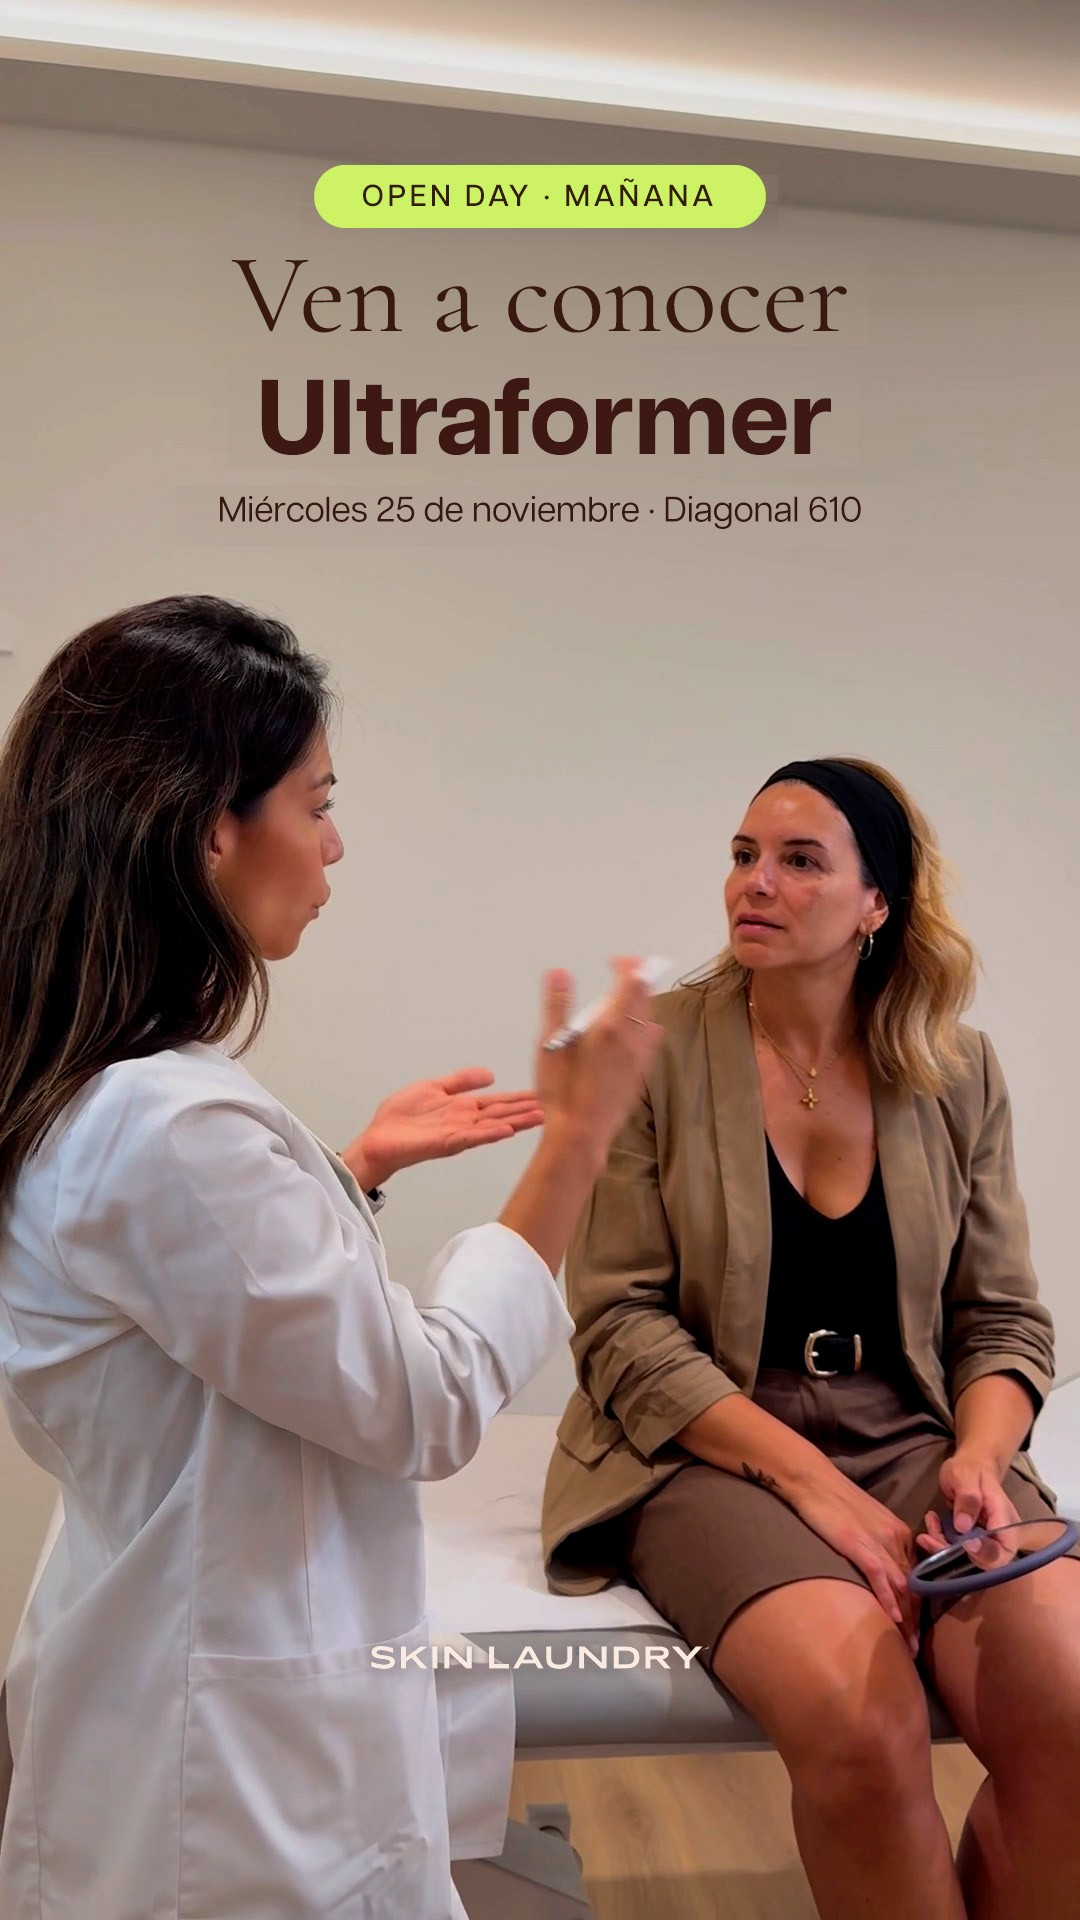
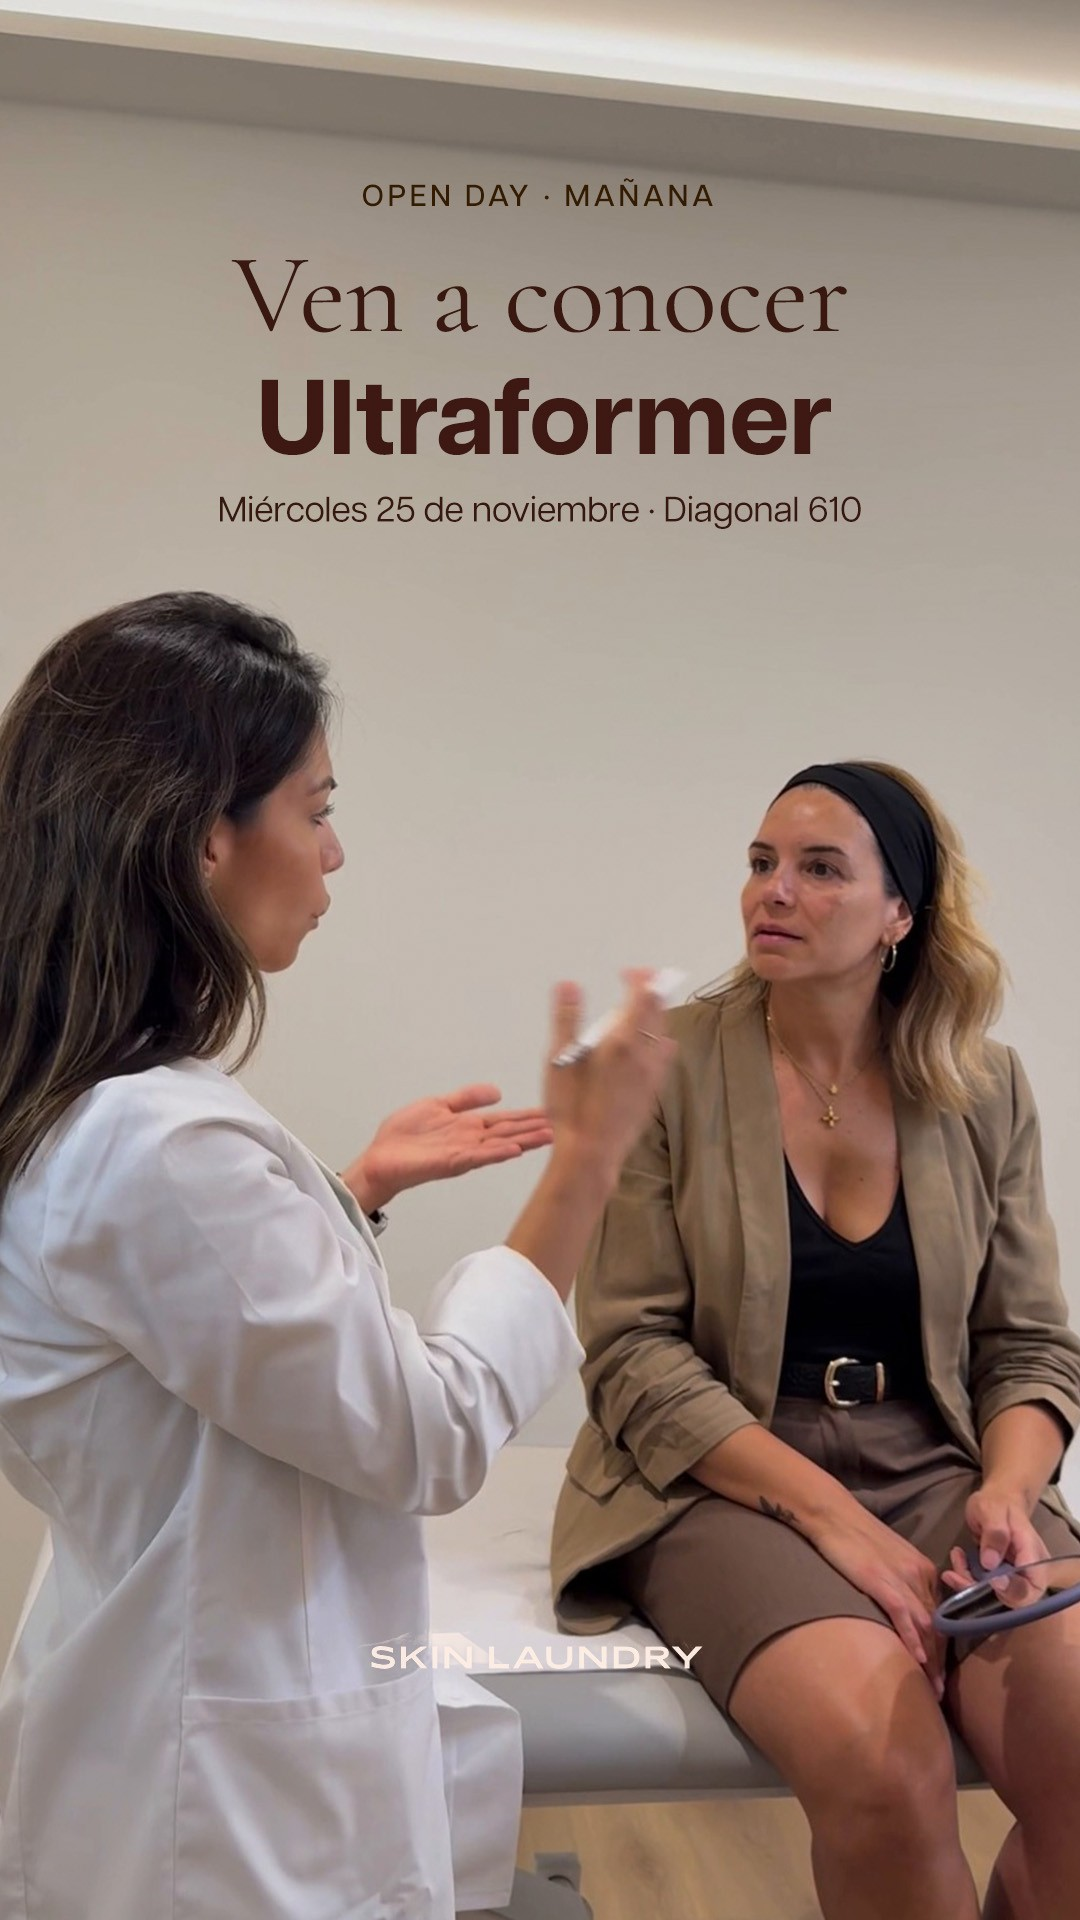
Calendario Skin Laundry: nuevo post y story del martes 24 (Open Day Ultraformer)
Claude-Session: https://claude.ai/code/session_012nXickREEWY8hKe2DiBpuq

diff --git a/public/pitch/skin-laundry-calendario/noviembre/index.html b/public/pitch/skin-laundry-calendario/noviembre/index.html
@@ -799,7 +799,7 @@ Sin tecnicismos y sin prisas: la primera visita es para conocernos y resolver to
 
 #SkinLaundryBarcelona #PrimeraVisita #CuidadoDeLaPiel #OpenDay #Ultraformer #SkincareBarcelona` },
 
-{ d:24, formato:"Post", estado:"listo", storyLeft:425, storyVisible:true, storyLbl:"Story", storyImgs:["/pitch/skin-laundry-calendario/noviembre/img/st_24_openday.jpg?v=11231616"], media:"/pitch/skin-laundry-calendario/noviembre/img/d24_post.jpg?v=11231616", cubo:"Med. estética", tema:"Ultraformer", hora:"13:00h",
+{ d:24, formato:"Post", estado:"listo", storyLeft:425, storyVisible:true, storyLbl:"Story", storyImgs:["/pitch/skin-laundry-calendario/noviembre/img/st_24_openday.jpg?v=11241023"], media:"/pitch/skin-laundry-calendario/noviembre/img/d24_post.jpg?v=11241023", cubo:"Med. estética", tema:"Ultraformer", hora:"13:00h",
   pieza:"Open day: ven a verlo",
   base:"Doc §1", cta:"Consulta previa con nuestros médicos",
   nota:"Se publica el día antes del open day (miércoles 25) para avisar con tiempo · confirmar el horario del evento para completar el copy y si hace falta inscribirse",
